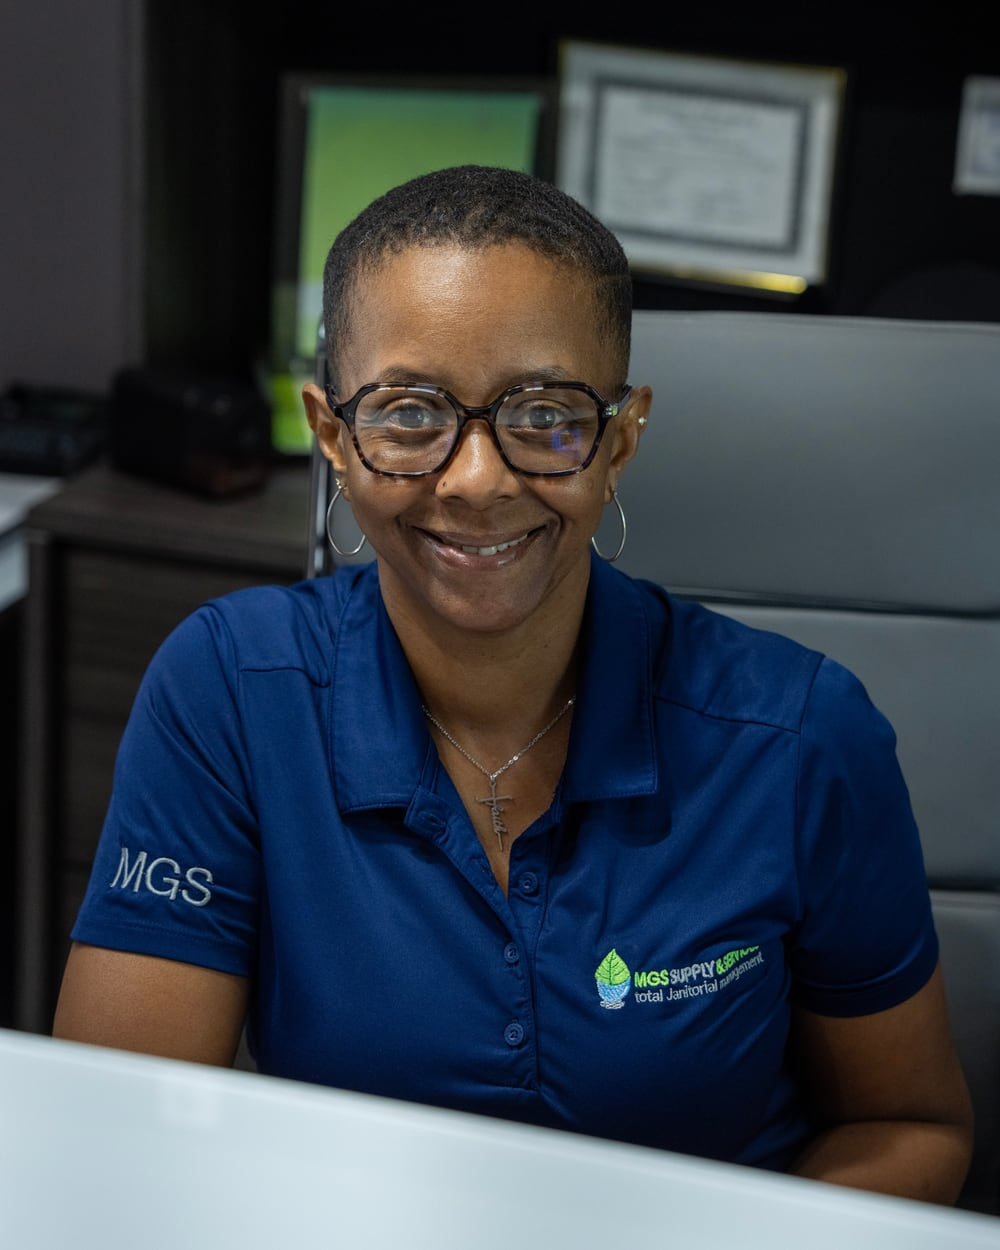
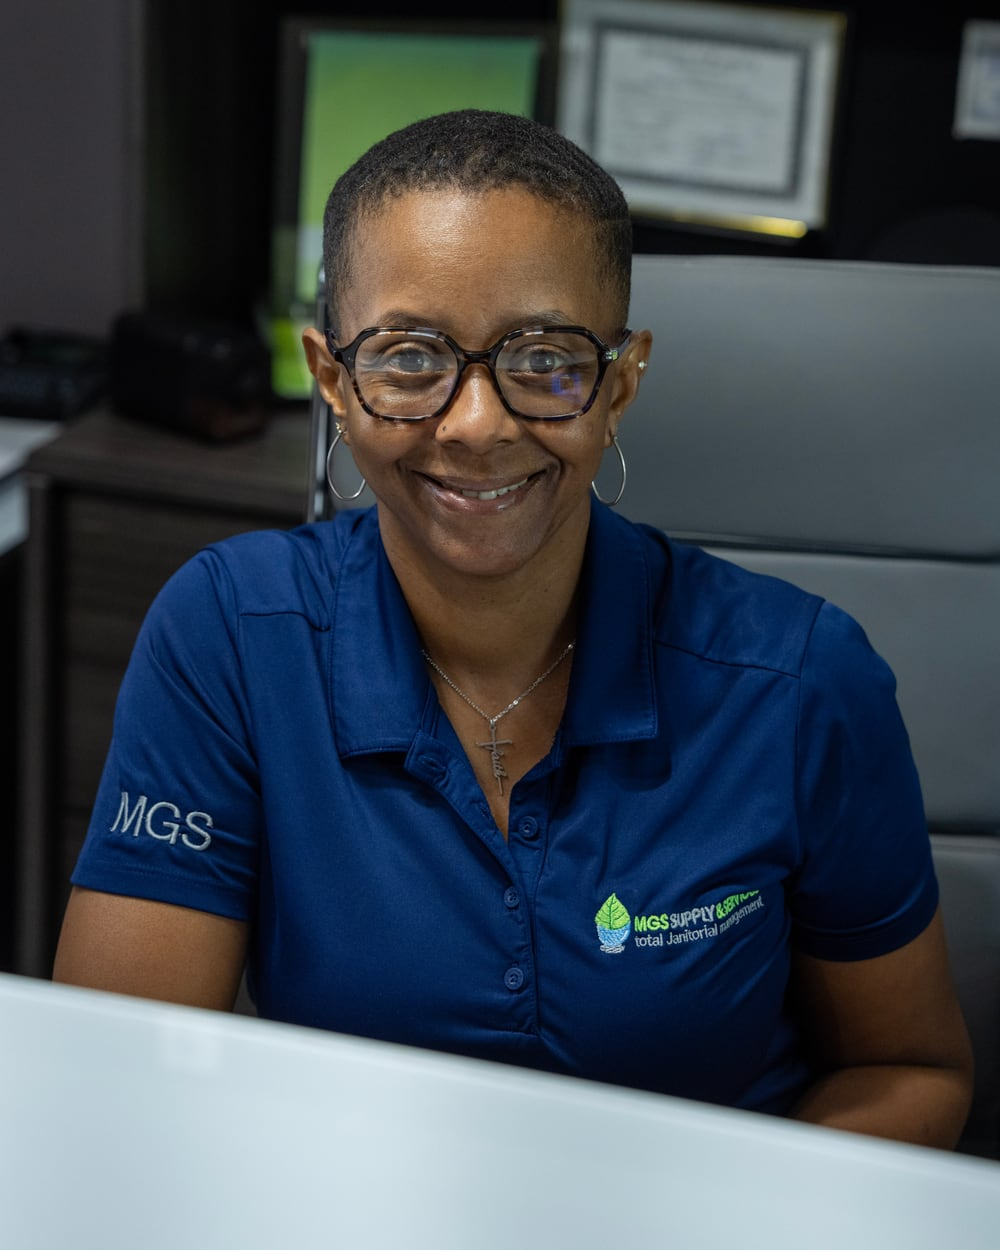
Correct the eye line on Barbara, Rhonda and Gisella
The first alignment pass estimated each subject's eye line off the full
master, which turned out to be unreliable. Measured against a magnified
eye-band render, the error was:

  Barbara      37.4% of frame   6.4% too low
  Rhonda       34.5%            3.5% too low
  Gisella      30.3%            2.3% too low
  Edgar        27.8%            on line
  Saul         28.2%            on line
  Maximiliano  26.7%            on line

Three sitting within 1.5% of each other while three drifted low is
exactly what it looked like - a lineup with half the heads sagging.

Rather than nudge by feel, the true eye positions were back-solved from
the previous render:

  trueEyeY = (top + observedEyeFraction * cropH) / masterHeight

and fed back into the table. EYE_TARGET moved 0.31 -> 0.30 so the three
that were already right barely move. One further 1% nudge on Gisella
put her exactly on the line.

Adds scripts/portraits/measure-band.cjs - crops the 18-46% slice of each
OUTPUT and magnifies it with the target line drawn through, so vertical
error is read directly instead of guessed. This is the check that
actually catches misalignment; the whole-frame sheet is too small to
judge a 2% error. README now documents the cut/measure/correct loop and
the back-solve formula.

Verified: the eye line crosses all six subjects' eyes, and
color-contrast remains the only violation type on /about.

diff --git a/scripts/portraits/README.md b/scripts/portraits/README.md
@@ -17,8 +17,27 @@ alignment is baked into the images instead.
 ```bash
 node scripts/portraits/measure-grid.cjs    # 1. contact sheet with 5% gridlines
 node scripts/portraits/align.cjs           # 2. crop + resize from the masters
-node scripts/portraits/check-alignment.cjs # 3. contact sheet with the eye line drawn
+node scripts/portraits/measure-band.cjs    # 3. MAGNIFIED eye-band check  <- the one that matters
+node scripts/portraits/check-alignment.cjs #    (quick whole-frame sanity check)
 ```
+
+### Expect to iterate — cut, measure the OUTPUT, correct, cut again
+
+Estimating the eye line off a full master is unreliable; the first pass here
+was wrong by up to 6% of frame height on three of six people, which is
+obvious in a row. `measure-band.cjs` crops the 18–46% slice of each **output**
+and blows it up with the target line drawn through, so error is read directly
+instead of guessed.
+
+To correct someone, back-solve their true eye position from the render:
+
+```
+trueEyeY = (top + observedEyeFraction * cropH) / masterHeight
+```
+
+`top` and `cropH` are printed by `align.cjs`; `observedEyeFraction` comes off
+the band image. Put `trueEyeY` in the table and re-run. One correction round
+is normally enough; a second is only needed for sub-2% nudges.
 
 Paths at the top of each file point at the masters; update them for a new
 shoot. `align.cjs` always crops from the **full-resolution masters**, never
